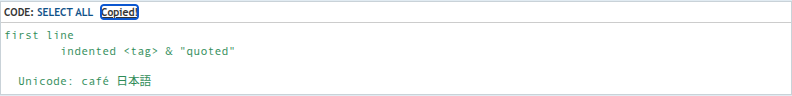
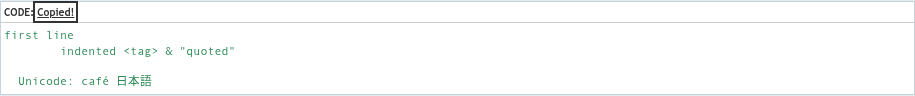
Replace redundant Select all link when code copying is available

diff --git a/tests/browser/code-copy.js b/tests/browser/code-copy.js
@@ -28,6 +28,8 @@ const { chromium } = require('playwright');
 		const buttons = page.locator('.copylinks-code');
 		await buttons.first().waitFor();
 		assert.ok(await buttons.count() >= 2, 'fixture needs two code blocks');
+		assert.equal(await page.locator('.codebox p a[onclick*="selectCode("]').count(), 0, 'Select all is replaced when JavaScript runs');
+		assert.equal(await buttons.count(), await page.locator('.codebox pre > code').count());
 		const expected = await page.locator('.codebox pre > code').allInnerTexts();
 		const first = buttons.first();
 		await first.click();
@@ -43,10 +45,6 @@ const { chromium } = require('playwright');
 		await page.waitForFunction(() => window.copiedTexts.length === 4);
 		assert.equal(await page.evaluate(() => window.copiedTexts[3]), expected[1]);
 		await page.waitForFunction(() => Array.from(document.querySelectorAll('.copylinks-code')).every(button => button.textContent === 'Copy code'));
-		await page.locator('.codebox p a').first().click();
-		// Chromium's native selection omits the final block newline.
-		assert.equal(await page.evaluate(() => window.getSelection().toString()), expected[0].replace(/\n$/, ''));
-		assert.equal(await page.evaluate(() => window.copiedTexts.length), 4);
 
 		// Existing heading copying still uses the configured output format.
 		await page.locator('h2.topic-title > a').click();
@@ -100,10 +98,11 @@ const { chromium } = require('playwright');
 		const plainPage = await noJS.newPage();
 		await plainPage.goto(process.env.COPYLINKS_TEST_URL);
 		assert.equal(await plainPage.locator('.copylinks-code').count(), 0);
-		assert.ok(await plainPage.locator('.codebox p a').count() >= 2);
+		assert.ok(await plainPage.locator('.codebox p a[onclick*="selectCode("]').count() >= 2);
+		assert.equal(await plainPage.getByRole('link', {name: 'Select all', exact: true}).count(), expected.length);
 		assert.deepEqual(await plainPage.locator('.codebox pre > code').allTextContents(), expected);
 		await noJS.close();
-		console.log('PASS: exact code, multiple blocks, Enter/Space, repeat feedback, Select all, heading format, denied/missing/insecure clipboard selection fallback and recovery, focus, 320px layout, accessible name, no-JS content.');
+		console.log('PASS: exact code, multiple blocks, Enter/Space, repeat feedback, one code control, heading format, denied/missing/insecure clipboard selection fallback and recovery, focus, 320px layout, accessible name, no-JS Select all and content.');
 	} finally {
 		await browser.close();
 	}

diff --git a/styles/all/template/copylinks.js b/styles/all/template/copylinks.js
@@ -239,7 +239,7 @@
 		mark(anchor, 'faq');
 	});
 
-	// Keep Select all intact and add a native button beside it. Reading the
+	// Replace Select all only after the copy button is ready. Reading the
 	// rendered code preserves indentation, line breaks and highlighted text.
 	document.querySelectorAll('.codebox').forEach(function (box) {
 		var header = box.querySelector('p');
@@ -267,7 +267,12 @@
 				announce(codeFailedMessage);
 			});
 		});
-		header.appendChild(button);
+		var selectAll = header.querySelector('a[onclick*="selectCode("]');
+		if (selectAll) {
+			header.replaceChild(button, selectAll);
+		} else {
+			header.appendChild(button);
+		}
 	});
 
 	// One listener for every control. Clicks with a modifier key or a

diff --git a/styles/all/theme/copylinks.css b/styles/all/theme/copylinks.css
@@ -55,9 +55,8 @@
 	}
 }
 
-/* Text button beside Select all, using the codebox header's typography. */
+/* Copy control using the codebox header's typography. */
 .codebox .copylinks-code {
-	margin-inline-start: 0.75em;
 	padding: 0;
 	border: 0;
 	background: transparent;

diff --git a/README.md b/README.md
@@ -7,7 +7,7 @@ Click a forum, topic, post or FAQ heading to copy a link to it, ready-made as BB
 ## Features
 
 - Click a forum or topic title, a post subject, or a question in the FAQ or BBCode guide, and a link to it is copied as BBCode, for example `[url=https://example.com/forum/viewtopic.php?t=42]Topic title[/url]`. Paste it into a post and it shows as a readable link.
-- Code blocks have a separate **Copy code** button beside **Select all**. It copies plain text, preserving indentation and line breaks, and provides visible and screen reader feedback. If copying is blocked, the code is selected for manual copying. The ACP link-format setting does not affect code copying.
+- Code blocks use one **Copy code** button in place of **Select all** when JavaScript runs. With JavaScript off, the original **Select all** link remains. It copies plain text, preserving indentation and line breaks, and provides visible and screen reader feedback. If copying is blocked, the code is selected for manual copying. The ACP link-format setting does not affect code copying.
 - Also works on the title above the posting form and on the posts in the topic review below it.
 - Links are full addresses built from the forum, topic or post ID, so they work anywhere they're pasted and never carry a session ID. They always point at the forum, topic or post itself, not a page of it.
 - A small icon (Font Awesome `fa-clone` by default) marks each copyable heading and turns into a tick for a moment after copying. Screen readers announce "The link has been copied."

diff --git a/docs/images/screenshots/README.md b/docs/images/screenshots/README.md
@@ -22,11 +22,11 @@ Clicking a question in the FAQ copies a link to that question.
 
 ## Code block
 
-The separate **Copy code** button copies plain code without BBCode. **Select all**
-remains available. This Playwright screenshot shows the success label on phpBB
-3.3 after an actual clipboard write and read.
+**Copy code** replaces **Select all** when JavaScript runs. With JavaScript off,
+the original link remains. The screenshot shows the success label on phpBB 3.3,
+captured with the shared screenshot tool using a controlled clipboard outcome.
 
-<a href="copylinks-code.png"><img src="copylinks-code.png" width="700" height="85" alt="Copied feedback beside Select all in a code block"></a>
+<a href="copylinks-code.png"><img src="copylinks-code.png" width="700" height="73" alt="Single code-copy control showing Copied feedback"></a>
 
 ## ACP settings
 

diff --git a/tests/browser/README.md b/tests/browser/README.md
@@ -5,8 +5,8 @@ extension enabled. Set `COPYLINKS_TEST_URL` to a topic containing at least two
 code blocks, including multiline code with indentation, blank lines and Unicode.
 The script checks exact clipboard contents, multiple blocks, repeated copying,
 Enter and Space, visible feedback, the status region, manual-copy selection after denied, missing or insecure clipboard access and recovery, focus,
-a 320-pixel viewport, existing heading copying and Select all, and content
-availability with JavaScript disabled. Clipboard writes are stubbed.
+a 320-pixel viewport, existing heading copying, one code control with JavaScript,
+and the original Select all link and content with JavaScript disabled. Clipboard writes are stubbed.
 
 Run with Node.js and Playwright available in the environment:
 
